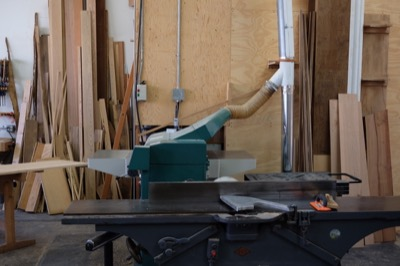
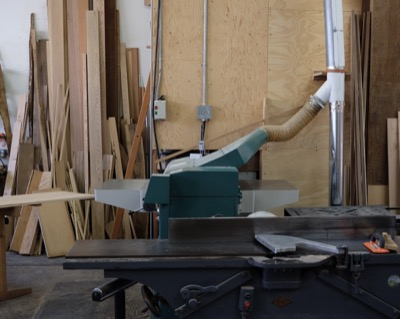
Use taller crop of workshop photo for About hero
Swaps in a taller version of the workshop image (1238x989 vs
1086x724) so more of the scene is visible in the hero section.

diff --git a/src/about/index.html b/src/about/index.html
@@ -24,7 +24,7 @@
   <link rel="preconnect" href="https://fonts.gstatic.com" crossorigin>
   <link rel="preload" as="style" href="https://fonts.googleapis.com/css2?family=Crimson+Pro:ital,wght@0,300;0,400;0,500;0,600;1,300;1,400;1,500&display=swap" onload="this.onload=null;this.rel='stylesheet'">
   <noscript><link href="https://fonts.googleapis.com/css2?family=Crimson+Pro:ital,wght@0,300;0,400;0,500;0,600;1,300;1,400;1,500&display=swap" rel="stylesheet"></noscript>
-  <link rel="preload" as="image" href="/images/about/workshop-800w.webp" type="image/webp" imagesrcset="/images/about/workshop-400w.webp 400w, /images/about/workshop-800w.webp 800w, /images/about/workshop.webp 1086w" imagesizes="100vw" fetchpriority="high">
+  <link rel="preload" as="image" href="/images/about/workshop-800w.webp" type="image/webp" imagesrcset="/images/about/workshop-400w.webp 400w, /images/about/workshop-800w.webp 800w, /images/about/workshop.webp 1238w" imagesizes="100vw" fetchpriority="high">
   <link rel="stylesheet" href="/css/styles.min.css">
   <link rel="stylesheet" href="/css/pages.css">
 </head>
@@ -58,7 +58,7 @@
 
   <main id="page">
     <section class="page-hero">
-      <picture><source srcset="/images/about/workshop-400w.webp 400w, /images/about/workshop-800w.webp 800w, /images/about/workshop.webp 1086w" sizes="100vw" type="image/webp"><img src="/images/about/workshop.jpeg" alt="Flatow Furniture woodworking workshop with jointer and lumber" class="page-hero-image" srcset="/images/about/workshop-400w.jpeg 400w, /images/about/workshop-800w.jpeg 800w, /images/about/workshop.jpeg 1086w" sizes="100vw" width="1086" height="724"></picture>
+      <picture><source srcset="/images/about/workshop-400w.webp 400w, /images/about/workshop-800w.webp 800w, /images/about/workshop.webp 1238w" sizes="100vw" type="image/webp"><img src="/images/about/workshop.jpeg" alt="Flatow Furniture woodworking workshop with jointer and lumber" class="page-hero-image" srcset="/images/about/workshop-400w.jpeg 400w, /images/about/workshop-800w.jpeg 800w, /images/about/workshop.jpeg 1238w" sizes="100vw" width="1238" height="989"></picture>
     </section>
 
     <section class="page-content about-page">
